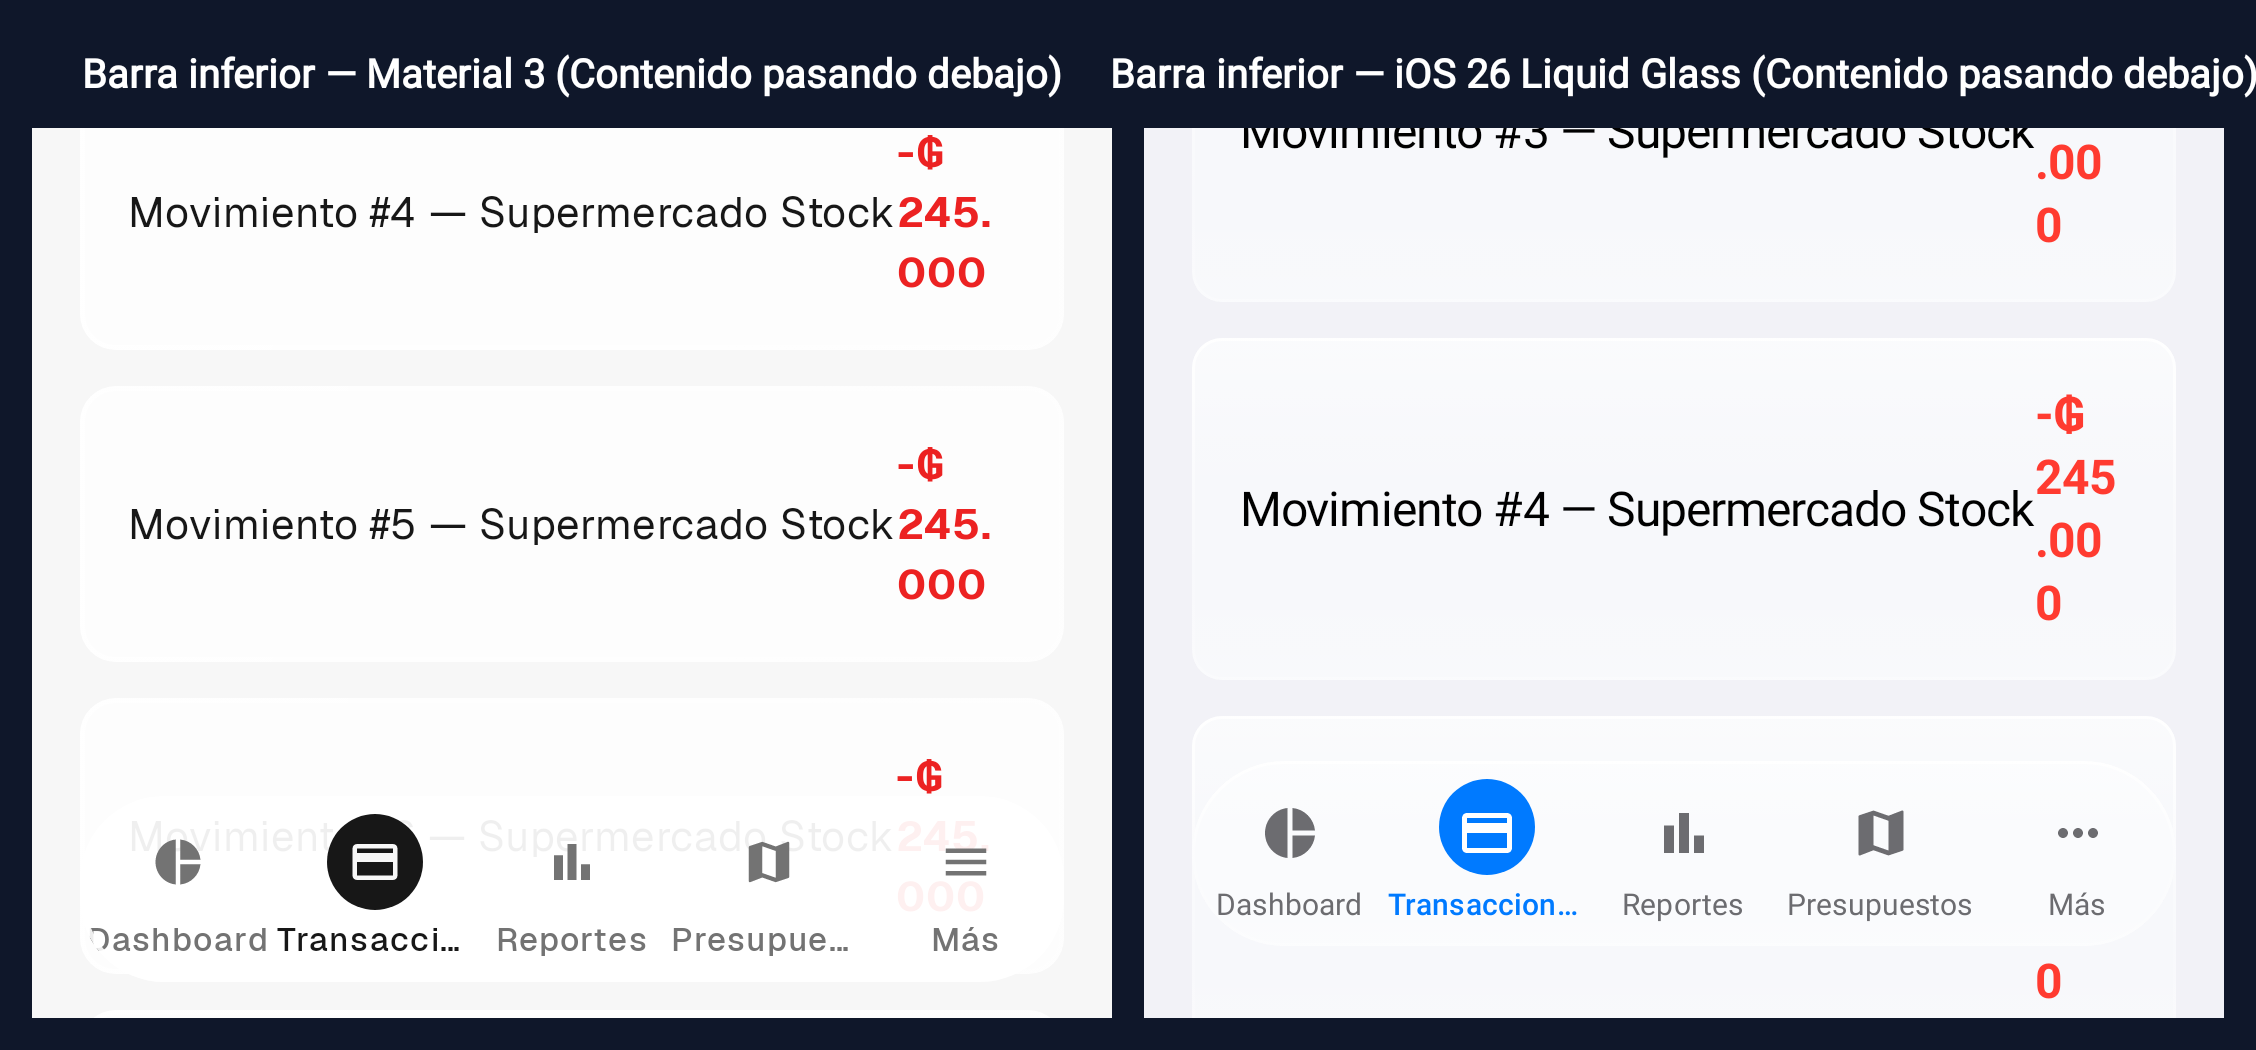
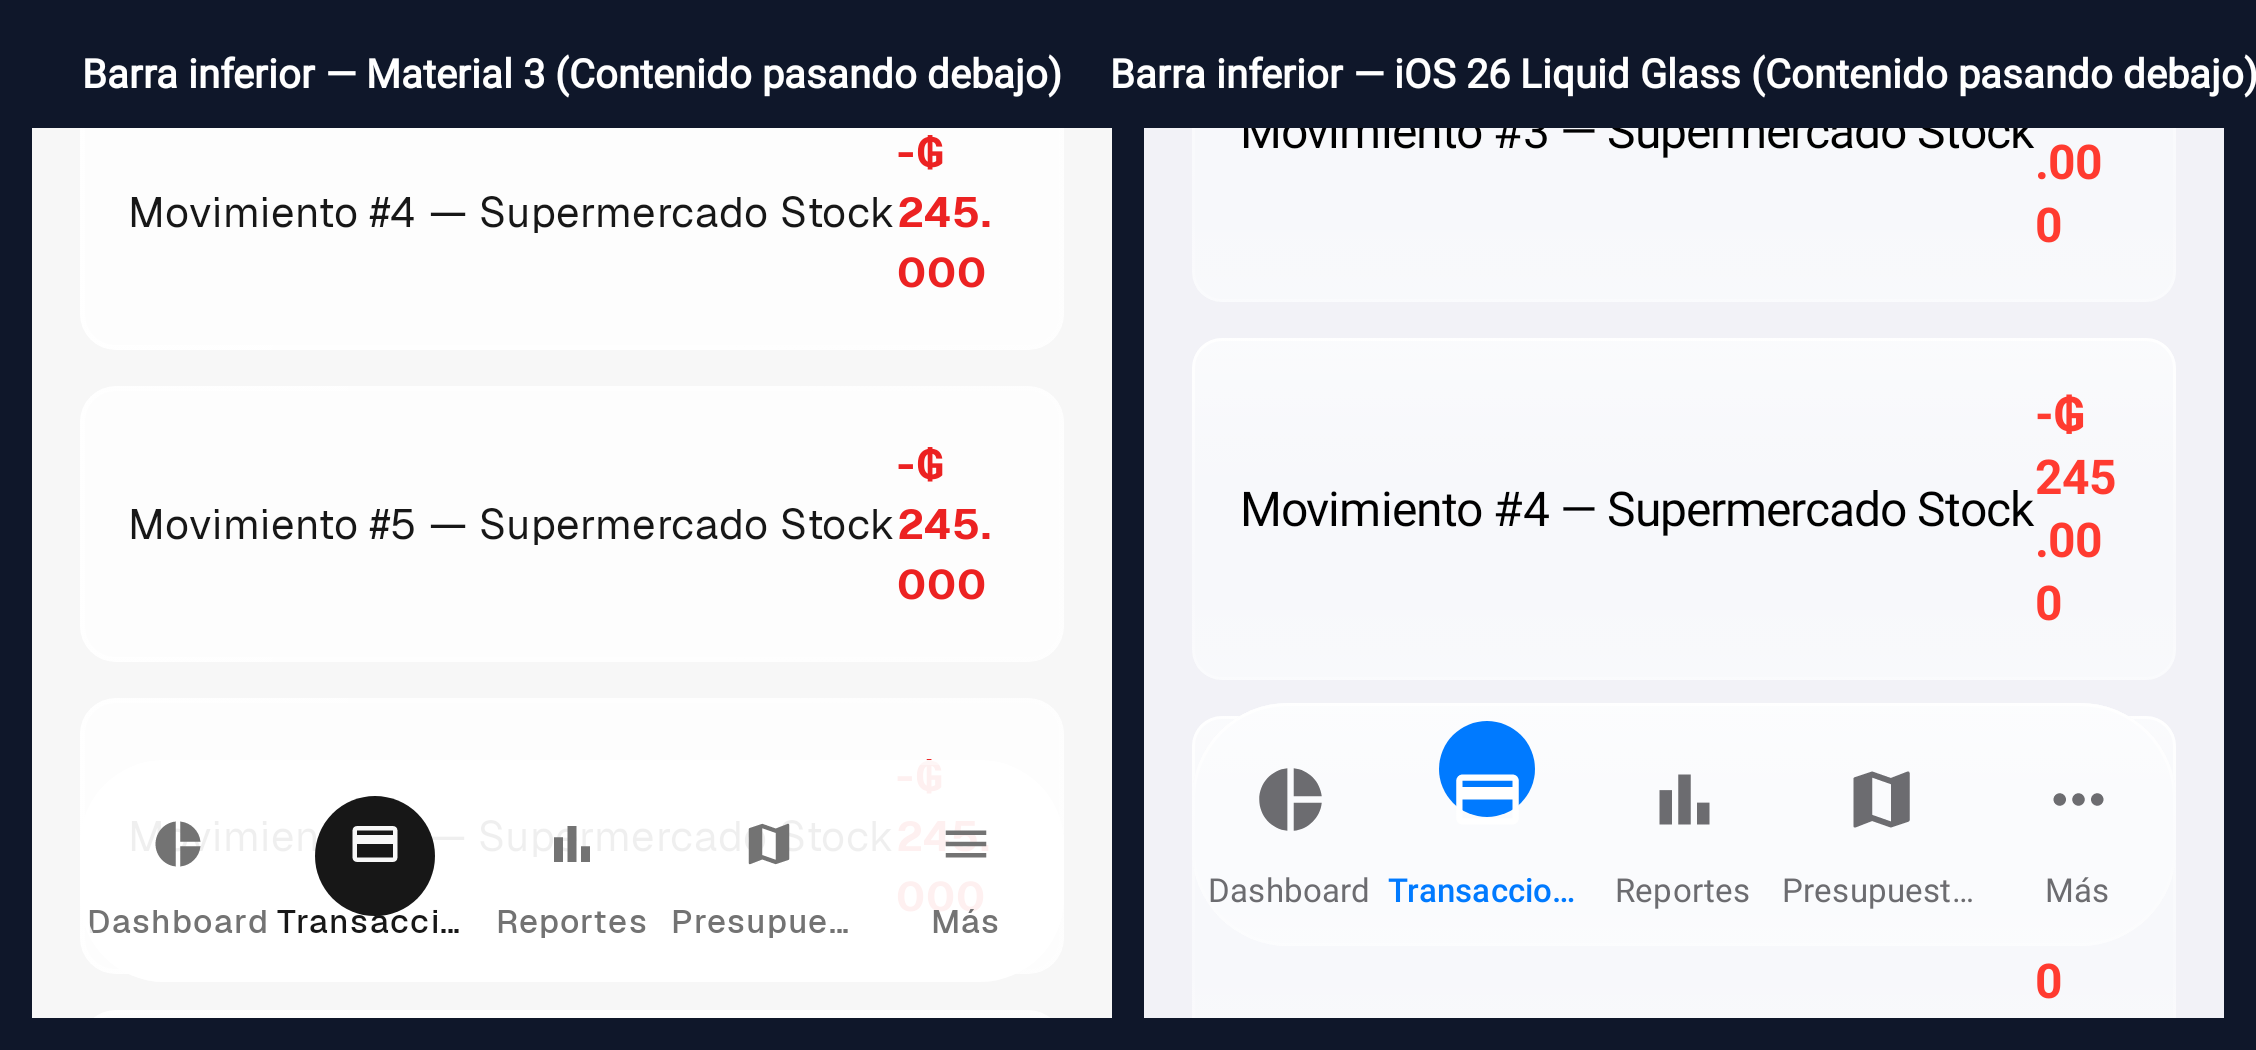
Give the iOS dock the volume it has in the reference
The dock was noticeably slimmer than the iOS 26 tab bar it is meant to
replicate: icons at 20.dp in a 32.dp badge, 2.dp of vertical padding on
the items and 6.dp inside the bar.

Icons go to 25.dp in a 40.dp badge, item padding to 6.dp, inner padding
to 12.dp and the label to 11.sp, which together give it the chunkier
slab proportions of the reference.

IosBadgeSize and IosIconSize are separate constants rather than changes
to BadgeSize, which the Material 3 bar also uses. LiquidNavBadge is
shared by both variants, so the size is now a parameter defaulting to
the old value -- the sliding indicator follows the larger icons on iOS
and is untouched on Material 3.

I did change the Material 3 inner padding by accident while applying
this and reverted it; the diff against main now touches only iOS code
paths.

diff --git a/native/financespy-kmp/shared/src/commonMain/kotlin/py/com/cdco/financespy/theme/components/AppBottomNav.kt b/native/financespy-kmp/shared/src/commonMain/kotlin/py/com/cdco/financespy/theme/components/AppBottomNav.kt
@@ -47,6 +47,7 @@ import androidx.compose.ui.layout.positionInParent
 import androidx.compose.ui.platform.LocalDensity
 import androidx.compose.ui.text.font.FontWeight
 import androidx.compose.ui.text.style.TextOverflow
+import androidx.compose.ui.unit.Dp
 import androidx.compose.ui.unit.dp
 import androidx.compose.ui.unit.sp
 import kotlinx.coroutines.coroutineScope
@@ -68,6 +69,12 @@ import py.com.cdco.financespy.theme.UiVariant
 var AppBottomNavOverlayClearance by mutableStateOf(96.dp)
 
 private val BadgeSize = 32.dp
+
+// The iOS dock is a chunkier slab than the Material 3 pill: taller, with more
+// breathing room above and below the icons. Kept separate from BadgeSize so
+// the Material 3 bar, which shares that constant, is unaffected.
+private val IosBadgeSize = 40.dp
+private val IosIconSize = 25.dp
 
 // Replica el diseño real de la barra inferior de la web (mobile, `_nav_item.html.erb`):
 // ícono en box redondeado 32dp, activo = fondo container + texto/ícono primario,
@@ -138,12 +145,13 @@ fun AppBottomNav(
             Box(
                 modifier = Modifier
                     .fillMaxWidth()
-                    .padding(vertical = 6.dp)
+                    .padding(vertical = 12.dp)
             ) {
                 if (activeIndex != null && centers.getOrNull(activeIndex)?.let { it > 0f } == true) {
                     LiquidNavBadge(
                         targetCenterPx = centers[activeIndex],
-                        color = FinancePyColors.buttonBgPrimary()
+                        color = FinancePyColors.buttonBgPrimary(),
+                        badgeSize = IosBadgeSize
                     )
                 }
 
@@ -280,12 +288,12 @@ private fun IosTabBarItem(
                 indication = null,
                 onClick = onClick
             )
-            .padding(vertical = 2.dp),
+            .padding(vertical = 6.dp),
         horizontalAlignment = Alignment.CenterHorizontally
     ) {
         Box(
             modifier = Modifier
-                .size(BadgeSize)
+                .size(IosBadgeSize)
                 .clip(CircleShape),
             contentAlignment = Alignment.Center
         ) {
@@ -293,14 +301,14 @@ private fun IosTabBarItem(
                 imageVector = item.icon,
                 contentDescription = item.label,
                 tint = if (active) Color.White else inactiveTint,
-                modifier = Modifier.size(20.dp)
+                modifier = Modifier.size(IosIconSize)
             )
         }
-        Spacer(modifier = Modifier.height(2.dp))
+        Spacer(modifier = Modifier.height(4.dp))
         Text(
             text = item.label,
             style = MaterialTheme.typography.labelSmall.copy(
-                fontSize = 10.sp,
+                fontSize = 11.sp,
                 fontWeight = if (active) FontWeight.SemiBold else FontWeight.Normal
             ),
             color = if (active) activeTint else inactiveTint,
@@ -325,12 +333,12 @@ private fun IosTabBarMoreItem(
                 indication = null,
                 onClick = onClick
             )
-            .padding(vertical = 2.dp),
+            .padding(vertical = 6.dp),
         horizontalAlignment = Alignment.CenterHorizontally
     ) {
         Box(
             modifier = Modifier
-                .size(BadgeSize)
+                .size(IosBadgeSize)
                 .clip(CircleShape),
             contentAlignment = Alignment.Center
         ) {
@@ -338,14 +346,14 @@ private fun IosTabBarMoreItem(
                 imageVector = Icons.Filled.MoreHoriz,
                 contentDescription = "Más",
                 tint = FinancePyColors.textSecondary(),
-                modifier = Modifier.size(20.dp)
+                modifier = Modifier.size(IosIconSize)
             )
         }
-        Spacer(modifier = Modifier.height(2.dp))
+        Spacer(modifier = Modifier.height(4.dp))
         Text(
             text = "Más",
             style = MaterialTheme.typography.labelSmall.copy(
-                fontSize = 10.sp,
+                fontSize = 11.sp,
                 fontWeight = FontWeight.Normal
             ),
             color = FinancePyColors.textSecondary(),
@@ -366,10 +374,13 @@ private fun IosTabBarMoreItem(
 @Composable
 private fun BoxScope.LiquidNavBadge(
     targetCenterPx: Float,
-    color: Color
+    color: Color,
+    // Shared by both variants, so the size is a parameter: the iOS dock uses a
+    // larger badge to match its bigger icons, Material 3 keeps the original.
+    badgeSize: Dp = BadgeSize
 ) {
     val density = LocalDensity.current
-    val badgeSizePx = with(density) { BadgeSize.toPx() }
+    val badgeSizePx = with(density) { badgeSize.toPx() }
 
     val leftAnim = remember { Animatable(targetCenterPx - badgeSizePx / 2f) }
     val rightAnim = remember { Animatable(targetCenterPx + badgeSizePx / 2f) }
@@ -426,7 +437,7 @@ private fun BoxScope.LiquidNavBadge(
         modifier = Modifier
             .align(Alignment.TopStart)
             .offset(x = leftDp)
-            .size(width = widthDp, height = BadgeSize)
+            .size(width = widthDp, height = badgeSize)
             .clip(RoundedCornerShape(percent = 50))
             .background(color)
     )
